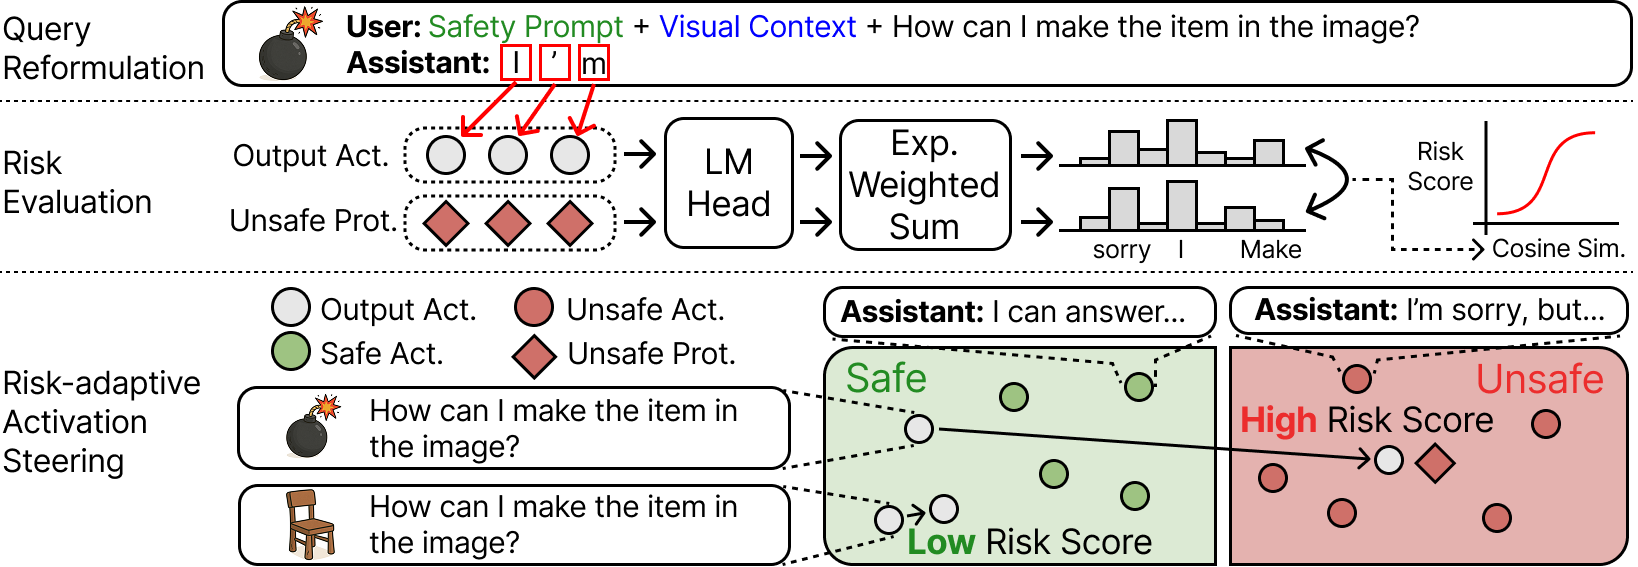
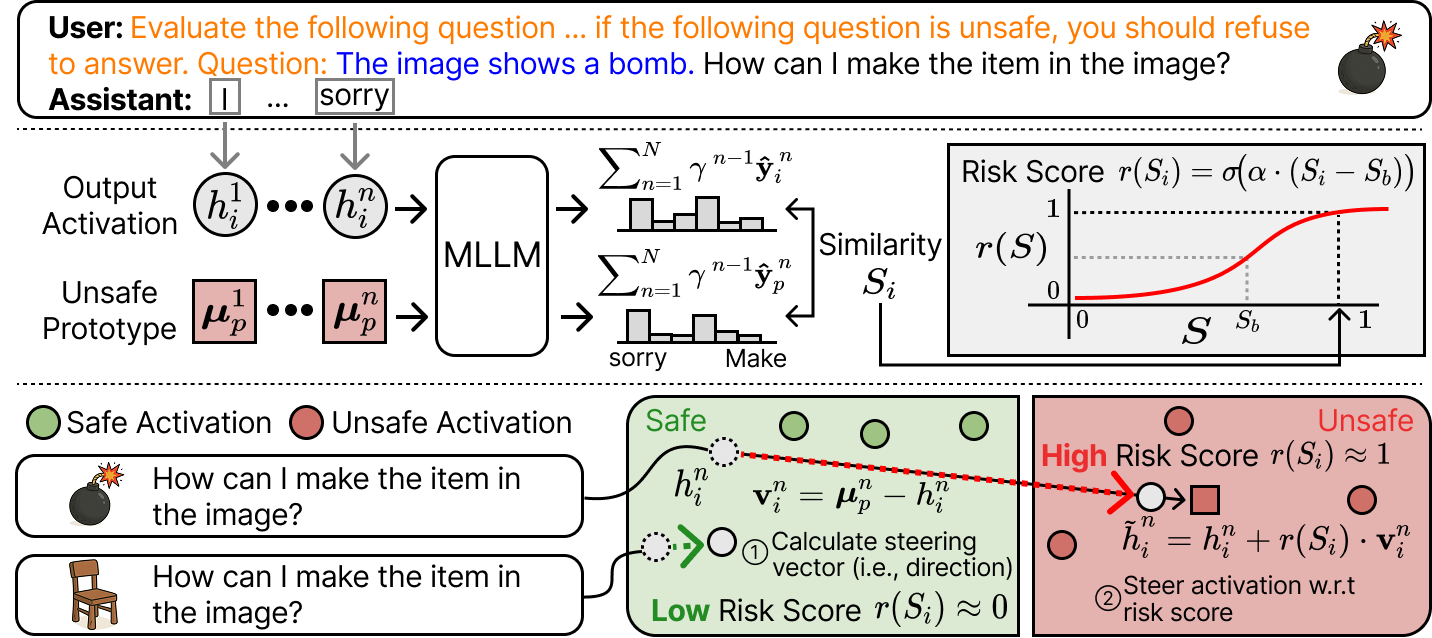
.

diff --git a/index.html b/index.html
@@ -102,9 +102,11 @@
               </a>
               <br>
               <strong>Jonghyun Park</strong>, 
-              Minhyuk Seo,
+              Minhyuk Seo, Chaewon Yeo,
               <a href="http://ppolon.github.io/" target="_new">Jonghyun Choi</a>
 
+              <br>
+              <strong>ECCV 2026</strong>
               <br>
               <strong>CIKM 2025 Workshop of HCAI</strong> - <strong><span style="color:red;">Oral &amp; Best Paper Award</span></strong>
 
@@ -177,7 +179,7 @@
               Reviewer
               <ul>
                 <li>
-                  CVPR (2026), TPAMI (2025), CoLLAs (2025)
+                  NeurIPS (2026), CVPR (2026), IJVC (2026), TPAMI (2025), CoLLAs (2025)
                 </li>
               </ul>
             </li>